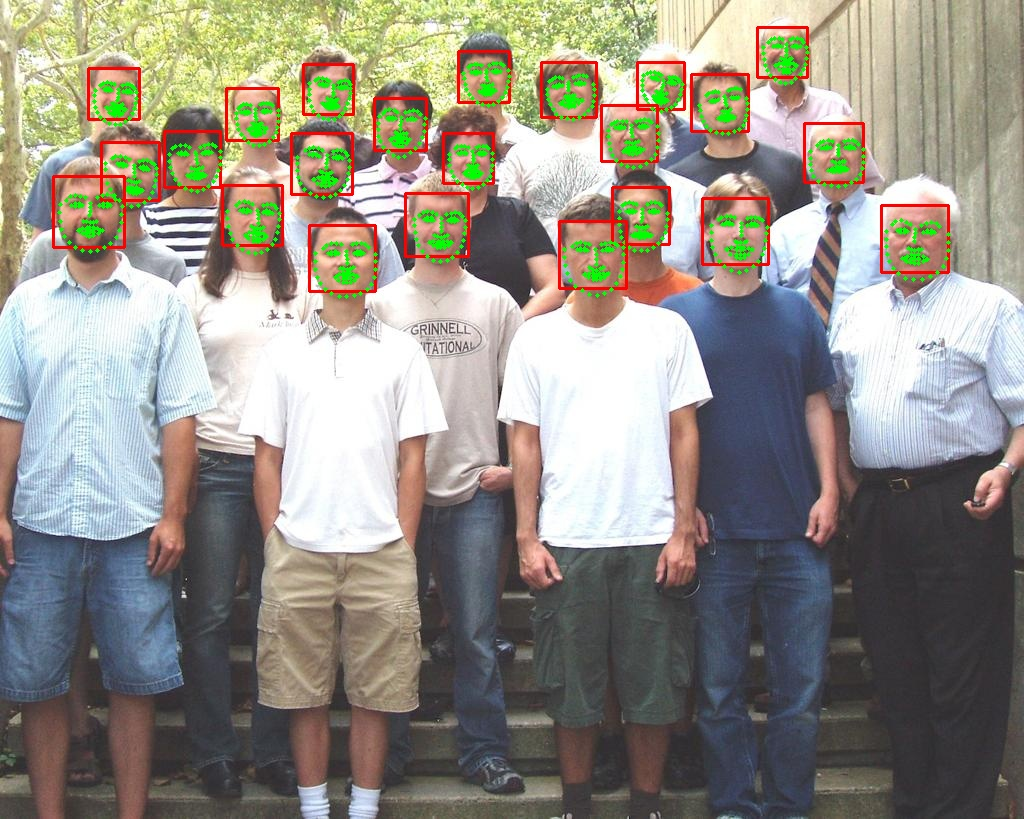
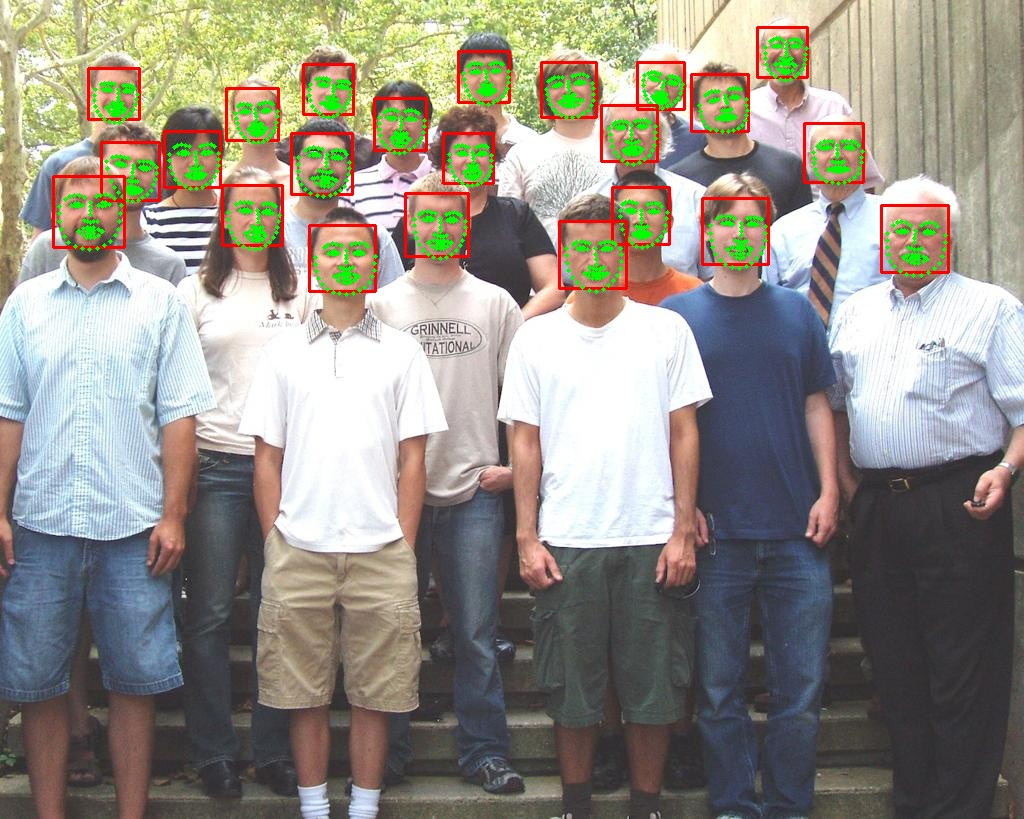
add mobilefacenet

diff --git a/models/mobilefacenet.py b/models/mobilefacenet.py
@@ -1,0 +1,159 @@
+from torch.nn import Linear, Conv2d, BatchNorm1d, BatchNorm2d, PReLU, ReLU, Sigmoid, Dropout2d, Dropout, AvgPool2d, MaxPool2d, AdaptiveAvgPool2d, Sequential, Module, Parameter
+import torch.nn.functional as F
+import torch
+import torch.nn as nn
+from collections import namedtuple
+import math
+import pdb
+
+##################################  Original Arcface Model #############################################################
+
+class Flatten(Module):
+    def forward(self, input):
+        return input.view(input.size(0), -1)
+
+##################################  MobileFaceNet #############################################################
+    
+class Conv_block(Module):
+    def __init__(self, in_c, out_c, kernel=(1, 1), stride=(1, 1), padding=(0, 0), groups=1):
+        super(Conv_block, self).__init__()
+        self.conv = Conv2d(in_c, out_channels=out_c, kernel_size=kernel, groups=groups, stride=stride, padding=padding, bias=False)
+        self.bn = BatchNorm2d(out_c)
+        self.prelu = PReLU(out_c)
+    def forward(self, x):
+        x = self.conv(x)
+        x = self.bn(x)
+        x = self.prelu(x)
+        return x
+
+class Linear_block(Module):
+    def __init__(self, in_c, out_c, kernel=(1, 1), stride=(1, 1), padding=(0, 0), groups=1):
+        super(Linear_block, self).__init__()
+        self.conv = Conv2d(in_c, out_channels=out_c, kernel_size=kernel, groups=groups, stride=stride, padding=padding, bias=False)
+        self.bn = BatchNorm2d(out_c)
+    def forward(self, x):
+        x = self.conv(x)
+        x = self.bn(x)
+        return x
+
+class Depth_Wise(Module):
+     def __init__(self, in_c, out_c, residual = False, kernel=(3, 3), stride=(2, 2), padding=(1, 1), groups=1):
+        super(Depth_Wise, self).__init__()
+        self.conv = Conv_block(in_c, out_c=groups, kernel=(1, 1), padding=(0, 0), stride=(1, 1))
+        self.conv_dw = Conv_block(groups, groups, groups=groups, kernel=kernel, padding=padding, stride=stride)
+        self.project = Linear_block(groups, out_c, kernel=(1, 1), padding=(0, 0), stride=(1, 1))
+        self.residual = residual
+     def forward(self, x):
+        if self.residual:
+            short_cut = x
+        x = self.conv(x)
+        x = self.conv_dw(x)
+        x = self.project(x)
+        if self.residual:
+            output = short_cut + x
+        else:
+            output = x
+        return output
+
+class Residual(Module):
+    def __init__(self, c, num_block, groups, kernel=(3, 3), stride=(1, 1), padding=(1, 1)):
+        super(Residual, self).__init__()
+        modules = []
+        for _ in range(num_block):
+            modules.append(Depth_Wise(c, c, residual=True, kernel=kernel, padding=padding, stride=stride, groups=groups))
+        self.model = Sequential(*modules)
+    def forward(self, x):
+        return self.model(x)
+
+class GNAP(Module):
+    def __init__(self, embedding_size):
+        super(GNAP, self).__init__()
+        assert embedding_size == 512
+        self.bn1 = BatchNorm2d(512, affine=False)
+        self.pool = nn.AdaptiveAvgPool2d((1, 1))
+
+        self.bn2 = BatchNorm1d(512, affine=False)
+
+    def forward(self, x):
+        x = self.bn1(x)
+        x_norm = torch.norm(x, 2, 1, True)
+        x_norm_mean = torch.mean(x_norm)
+        weight = x_norm_mean / x_norm
+        x = x * weight
+        x = self.pool(x)
+        x = x.view(x.shape[0], -1)
+        feature = self.bn2(x)
+        return feature
+
+class GDC(Module):
+    def __init__(self, embedding_size):
+        super(GDC, self).__init__()
+        self.conv_6_dw = Linear_block(512, 512, groups=512, kernel=(7,7), stride=(1, 1), padding=(0, 0))
+        self.conv_6_flatten = Flatten()
+        self.linear = Linear(512, embedding_size, bias=False)
+        #self.bn = BatchNorm1d(embedding_size, affine=False)
+        self.bn = BatchNorm1d(embedding_size)
+
+    def forward(self, x):
+        x = self.conv_6_dw(x)
+        x = self.conv_6_flatten(x)
+        x = self.linear(x)
+        x = self.bn(x)
+        return x
+
+class MobileFaceNet(Module):
+    def __init__(self, input_size, embedding_size = 512, output_name = "GDC"):
+        super(MobileFaceNet, self).__init__()
+        assert output_name in ["GNAP", 'GDC']
+        assert input_size[0] in [112]
+        self.conv1 = Conv_block(3, 64, kernel=(3, 3), stride=(2, 2), padding=(1, 1))
+        self.conv2_dw = Conv_block(64, 64, kernel=(3, 3), stride=(1, 1), padding=(1, 1), groups=64)
+        self.conv_23 = Depth_Wise(64, 64, kernel=(3, 3), stride=(2, 2), padding=(1, 1), groups=128)
+        self.conv_3 = Residual(64, num_block=4, groups=128, kernel=(3, 3), stride=(1, 1), padding=(1, 1))
+        self.conv_34 = Depth_Wise(64, 128, kernel=(3, 3), stride=(2, 2), padding=(1, 1), groups=256)
+        self.conv_4 = Residual(128, num_block=6, groups=256, kernel=(3, 3), stride=(1, 1), padding=(1, 1))
+        self.conv_45 = Depth_Wise(128, 128, kernel=(3, 3), stride=(2, 2), padding=(1, 1), groups=512)
+        self.conv_5 = Residual(128, num_block=2, groups=256, kernel=(3, 3), stride=(1, 1), padding=(1, 1))
+        self.conv_6_sep = Conv_block(128, 512, kernel=(1, 1), stride=(1, 1), padding=(0, 0))
+        if output_name == "GNAP":
+            self.output_layer = GNAP(512)
+        else:
+            self.output_layer = GDC(embedding_size)
+
+        self._initialize_weights()
+
+    def _initialize_weights(self):
+        for m in self.modules():
+            if isinstance(m, nn.Conv2d):
+                nn.init.kaiming_normal_(m.weight, mode='fan_out', nonlinearity='relu')
+                if m.bias is not None:
+                    m.bias.data.zero_()
+            elif isinstance(m, nn.BatchNorm2d):
+                m.weight.data.fill_(1)
+                m.bias.data.zero_()
+            elif isinstance(m, nn.Linear):
+                nn.init.kaiming_normal_(m.weight, mode='fan_out', nonlinearity='relu')
+                if m.bias is not None:
+                    m.bias.data.zero_()
+
+
+    def forward(self, x):
+        out = self.conv1(x)
+
+        out = self.conv2_dw(out)
+
+        out = self.conv_23(out)
+
+        out = self.conv_3(out)
+
+        out = self.conv_34(out)
+
+        out = self.conv_4(out)
+
+        out = self.conv_45(out)
+
+        out = self.conv_5(out)
+
+        conv_features = self.conv_6_sep(out)
+        out = self.output_layer(conv_features)
+        return out, conv_features

diff --git a/test_batch_mtcnn_multiple.py b/test_batch_mtcnn_multiple.py
@@ -1,6 +1,7 @@
 # Face alignment demo
 # Uses MTCNN as a face detector; Support different backbones.
 # Cunjian Chen (ccunjian@gmail.com), Aug 2020
+
 from __future__ import division
 import argparse
 import torch
@@ -10,6 +11,8 @@ import numpy as np
 from common.utils import BBox,drawLandmark,drawLandmark_multiple
 from models.basenet import MobileNet_GDConv
 from models.pfld_compressed import PFLDInference
+from models.mobilefacenet import MobileFaceNet
+
 
 import matplotlib.pyplot as plt
 from src import detect_faces
@@ -18,7 +21,7 @@ import time
 parser = argparse.ArgumentParser(description='PyTorch face landmark')
 # Datasets
 parser.add_argument('--backbone', default='PFLD', type=str,
-                    help='choose which backbone network to use')
+                    help='choose which backbone network to use: PFLD, MobileFaceNet, MobileNet')
 
 args = parser.parse_args()
 mean = np.asarray([ 0.485, 0.456, 0.406 ])
@@ -40,7 +43,12 @@ def load_model():
         model = PFLDInference() 
         # download from https://drive.google.com/file/d/1zgQdcVuuHS73jiNmqPToOPDS9PjCl9cy/view?usp=sharing
         checkpoint = torch.load('checkpoint/pfld_model_best.pth.tar', map_location=map_location)
-        print('Use PFLD as backbone')  
+        print('Use PFLD as backbone') 
+        # download from https://drive.google.com/file/d/1_tWbsAnnfmlKddsrxX85WMiY9H-BuxL-/view?usp=sharing
+    elif args.backbone=='MobileFaceNet':
+        model = MobileFaceNet([112, 112],136)   
+        checkpoint = torch.load('checkpoint/mobilefacenet_model_best.pth.tar', map_location=map_location)      
+        print('Use MobileFaceNet as backbone')         
     else:
         print('Error: not suppored backbone')    
     model.load_state_dict(checkpoint['state_dict'])

diff --git a/README.md b/README.md
@@ -8,9 +8,7 @@ Implementation of face landmark detection with PyTorch. The models were trained 
 
 ## Inference
 Test on a sample folder and save the landmark detection results. Support different backbones.
-> python3 test_batch_mtcnn_multiple.py --backbone MobileNet
-
-> python3 test_batch_mtcnn_multiple.py --backbone PFLD
+> python3 test_batch_mtcnn_multiple.py --backbone MobileNet or PFLD or MobileFaceNet
 
 Optimize with ONNX and test on a camera with MTCNN as a face detector. 
 > python3 test_camera_mtcnn_onnx.py
